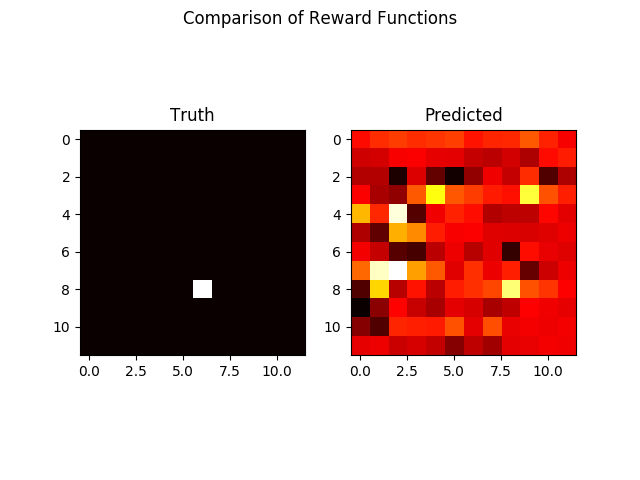
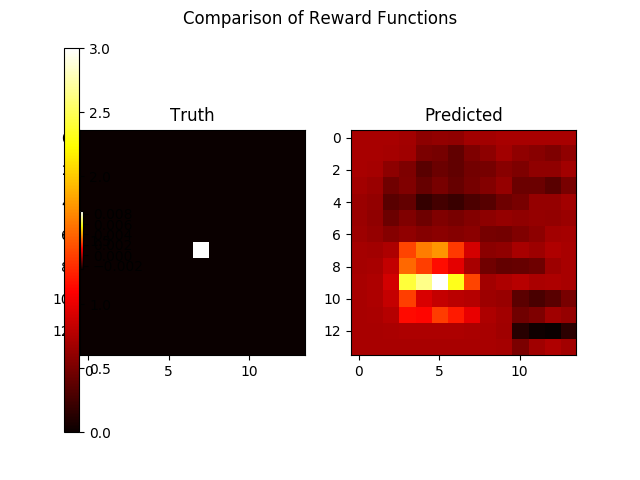
add colorbar to imshow

diff --git a/train.py b/train.py
@@ -214,10 +214,15 @@ with tf.Session() as sess:
     print(rewardtest2[0])
     print('The inferred reward is:')
     print(reward.eval()[0])
-    axes[0].imshow(rewardtest2[0],cmap='hot',interpolation='nearest')
+    true = axes[0].imshow(rewardtest2[0],cmap='hot',interpolation='nearest')
     axes[0].set_title("Truth")
-    axes[1].imshow(reward.eval()[0],cmap='hot',interpolation='nearest')
+    cbaxes = fig.add_axes([0.02, 0.1, 0.02, 0.8])
+    cb = plt.colorbar(true, cax=cbaxes)
+    tensor = axes[1].imshow(reward.eval()[0],cmap='hot',interpolation='nearest')
     axes[1].set_title("Predicted")
+    cbaxes2 = fig.add_axes([0.925, 0.1, 0.02, 0.8])
+    plt.colorbar(tensor, cax=cbaxes2)
+    # plt.colorbar.make_axes(axes[1], location='left')
     fig.suptitle("Comparison of Reward Functions")
     fig.savefig("predictioneval")
 
